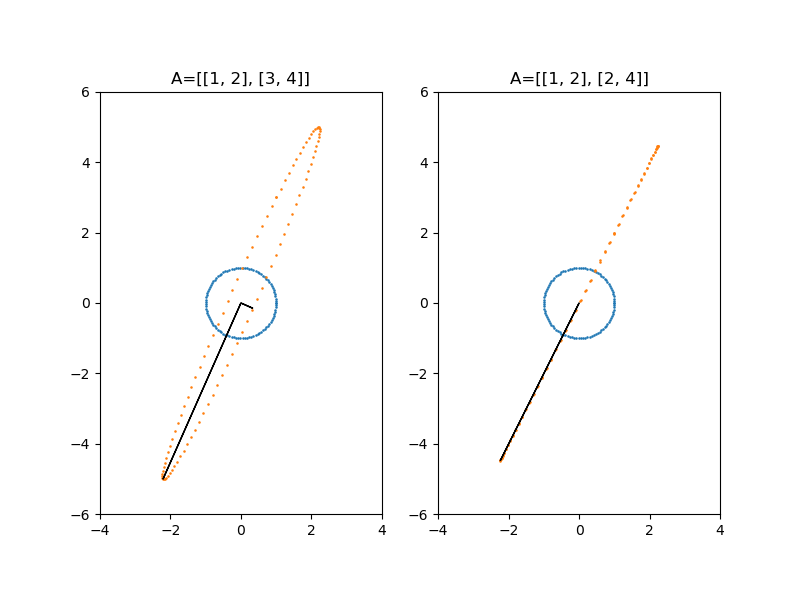
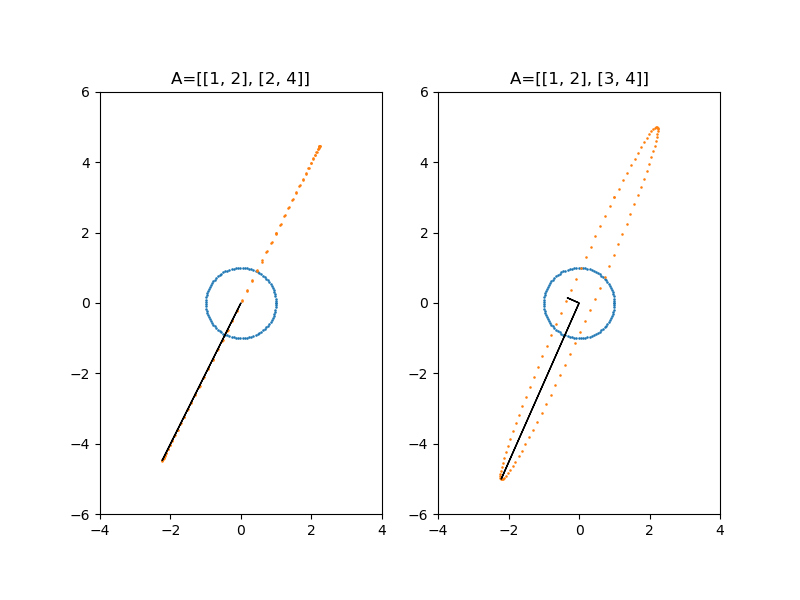
.

diff --git a/src/4_polar_decomp.py b/src/4_polar_decomp.py
@@ -3,50 +3,36 @@ import matplotlib.pyplot as plt
 from scipy import linalg
 
 
-def plot_circle_transformation(A, ax, use_svd=False):
-    # circle
-    t = np.linspace(-1, 1, 100)
-
-    # transform unit circle
-    Ax = A[0, :] @ np.stack([np.cos(2*np.pi*t), np.sin(2*np.pi*t)], axis=0)
-    Ay = A[1, :] @ np.stack([np.cos(2*np.pi*t), np.sin(2*np.pi*t)], axis=0)
-    ax.scatter(np.cos(2*np.pi*t), np.sin(2*np.pi*t), s=0.7)
-    ax.scatter(Ax, Ay, s=0.7)
-    ax.axis('scaled')
-    ax.set_ylim(-6, 6)
-    ax.set_xlim(-4, 4)
-
-    if use_svd==False:
-        # plot eigenvectors from polar decomposition
-        U, P = linalg.polar(A, side='right')
-    else:
-        # obtain U and P from SVD
-        u, s, vT = np.linalg.svd(A)
-        U = u @ vT
-        P = vT.T @ np.diag(s) @ vT
-    
-    # get eigenvectors -> scale by eigenvals -> rotate -> plot
-    eig_vals = np.linalg.eig(P)[0]
-    eig_vecs = np.linalg.eig(P)[1]
-    ax.arrow(0, 0, eig_vals[0]*(U @ eig_vecs[:, 0])[0], eig_vals[0]*(U @ eig_vecs[:, 0])[1]) # rotate v1
-    ax.arrow(0, 0, eig_vals[1]*(U @ eig_vecs[:, 1])[0], eig_vals[1]*(U @ eig_vecs[:, 1])[1]) # rotate v2
-    return U, P
-
-
 if __name__ == '__main__':
-    use_svd = False
-    T = np.array([[1, 2], [3, 4]]) # nonsingular
-    S = np.array([[1, 2], [2, 4]]) # singular
-    matrices = [T, S]
-    
-    # plot unit circle and its transformation
+    S = np.array([[1, 2], [2, 4]])
+    T = np.array([[1, 2], [3, 4]])
+    matrices = [S, T]
+
     fig, ax = plt.subplots(1, 2, figsize=(8, 6))
     for i in [0, 1]:
         A = matrices[i]
-        U, P = plot_circle_transformation(A, ax[i], use_svd=use_svd)
+        # circle
+        t = np.linspace(-1, 1, 100)
+
+        # transform unit circle
+        Ax = A[0, :] @ np.stack([np.cos(2*np.pi*t), np.sin(2*np.pi*t)], axis=0)
+        Ay = A[1, :] @ np.stack([np.cos(2*np.pi*t), np.sin(2*np.pi*t)], axis=0)
+        ax[i].scatter(np.cos(2*np.pi*t), np.sin(2*np.pi*t), s=0.7)
+        ax[i].scatter(Ax, Ay, s=0.7)
+        ax[i].axis('scaled')
+        ax[i].set_ylim(-6, 6)
+        ax[i].set_xlim(-4, 4)
+
+        # obtain U and P from SVD
+        u, s, vT = np.linalg.svd(A)
+        Q = u @ vT
+        P = vT.T @ np.diag(s) @ vT
+
+        # get eigenvectors -> scale by singular values -> rotate -> plot
+        eig_vals = s
+        eig_vecs = vT.T
+        ax[i].arrow(0, 0, eig_vals[0]*(Q @ eig_vecs[:, 0])[0], eig_vals[0]*(Q @ eig_vecs[:, 0])[1]) # rotate v1
+        ax[i].arrow(0, 0, eig_vals[1]*(Q @ eig_vecs[:, 1])[0], eig_vals[1]*(Q @ eig_vecs[:, 1])[1]) # rotate v2
         ax[i].set_title(f'A={A.tolist()}')
 
-    if use_svd:
-        plt.savefig('../img/4_polar_decomposition-svd.png')
-    else:
-        plt.savefig('../img/4_polar_decomposition.png')
+    plt.savefig('../img/4_polar_decomposition.png')

diff --git a/src/4_operator_norm.py b/src/4_operator_norm.py
@@ -1,12 +1,25 @@
 import numpy as np
+import matplotlib.pyplot as plt
+from matplotlib.ticker import MaxNLocator
 
-t = np.linspace(-1, 1, 11123)
-unit_circle = np.stack([np.cos(2*np.pi*t), np.sin(2*np.pi*t)], axis=0)
-A = np.random.randn(2, 2)
-op_norm = max([np.linalg.norm(A @ unit_circle[:, i]) for i in range(100)])
-op_norm_np = np.linalg.norm(A, 2)
-u, s, vT = np.linalg.svd(A)
 
-print("approx:\t", op_norm)
-print("numpy:\t", op_norm_np)
-print("svd:\t", s[0])
+errors = []
+for j in [2, 4, 5, 6]:
+    N = int(10*j) # <--- no. of points on the unit circle
+    t = np.linspace(-1, 1, N)
+    unit_circle = np.stack([np.cos(2*np.pi*t), np.sin(2*np.pi*t)], axis=0)
+    A = np.random.randn(2, 2)
+    outputs = A @ unit_circle
+    op_norm = np.linalg.norm(A @ unit_circle, axis=0).max()
+    op_norm_np = np.linalg.norm(A, 2)
+    errors.append(abs(op_norm - op_norm_np))
+
+# plot errors
+ax = plt.figure().gca()
+ax.plot([10, 100, 1000, 10000], errors)
+ax.xaxis.set_major_locator(MaxNLocator(integer=True))
+ax.set_ylabel('approx. error')
+ax.set_xlabel('no. of unit circle points')
+
+# save
+plt.savefig('../img/4_operator_norm.png')

diff --git a/src/4_compute_svd.py b/src/4_compute_svd.py
@@ -1,0 +1,21 @@
+import numpy as np
+
+
+rng = np.random.RandomState(0)
+A = rng.randn(2, 2)
+u, s, vT = np.linalg.svd(A)
+
+# check eigenvalues of sqrt(A^T A) = singular values A
+print('eigvals of sqrt(A^T A):\t', np.sqrt(np.linalg.eig( A.T @ A )[0]))
+print('singular values of A:\t', s)
+
+# check that maximum singular value = maximum dilation of circle
+N = 1000 # <--- no. of points on the unit circle
+t = np.linspace(-1, 1, N)
+unit_circle = np.stack([np.cos(2*np.pi*t), np.sin(2*np.pi*t)], axis=0)
+outputs = A @ unit_circle
+max_output_norm = np.linalg.norm(A @ unit_circle, axis=0).max()
+print('max norm - max s.value:\t', abs(max_output_norm - s[0]))
+
+# check that Av = \sigma u
+print('|| Av - su ||.max():\t', np.abs(u @ np.diag(s) - A @ vT.T).max()) 

diff --git a/notes.md b/notes.md
@@ -43,37 +43,47 @@
   <br><br>
 
 
-* (4.51) **Geometry of linear transformations.** In the code challenge, we saw that a unit circle is mapped into an ellipse. An explanation for this begins by considering the polar decomposition of any real matrix $\bold A$ into $\bold A =  \bold Q \bold P$ where $\bold Q \in \mathbb{R}^{n\times n}$ is orthogonal and $\bold P \in \mathbb{R}^{n\times n}$ is symmetric positive semidefinite. Note that $\bold P$ is a self-adjoint operator on $\mathbb R^n$. So $\bold P$ has real eigenvalues [[Prop. 7.6]](https://www.maa.org/sites/default/files/pdf/awards/Axler-Ford-1996.pdf) that are nonnegative since $\bold P$ is semidefinite. Self-adjointness further implies that $\bold P$ has $n$ real eigenvalues and $n$ real orthonormal eigenvectors [[Thm. 8.3]](https://www.maa.org/sites/default/files/pdf/awards/Axler-Ford-1996.pdf). This is called the **real spectral theorem** which allows us to write $\bold P = \bold V \bold \Sigma \bold V^\top$ where $\bold V$ is the orthogonal matrix formed by column stacking its eigenvectors of $\bold P$, and $\bold \Sigma$ is the diagonal matrix of its eigenvalues. If we look at $\bold V$ and $\bold V^\top$ as change of basis matrices, or writing $\bold P \bold x = \sum_{i=1}^n \lambda_i \bold v_i \bold v_i^\top \bold x$ (projection operators!) we see that $\bold A$ stretches $\mathbb R^n$ in the direction of the $n$ orthogonal eigenvectors, followed by an orthogonal transformation by $\bold Q$. We can [calculate](https://math.stackexchange.com/a/2924263) that orthogonal transformations of $\mathbb R^2$ are either rotations or reflections, so the unit circle in $\mathbb R^2$ is stretched onto an ellipse that is either reflected or rotated resulting to the final ellipse! Note that the rank of $\bold A$ is equal to the rank of $\bold P$ since $\bold Q$ is nonsingular. So whenever $\bold A$ doesn't have full rank, some eigenvalues of $\bold P$ are zero, which results to a degenerate ellipse, i.e. an ellipse collapsing on some axis (see below).
-<br><br>
-**Remark.** The polar decomposition comes from the SVD which states that any real matrix $\bold A \in \mathbb R^{m \times n}$ can be written as $\bold A = \bold U \bold \Sigma \bold V^\top$ where $\bold U \in \mathbb R^{m \times m}$ and $\bold V \in \mathbb R^{n \times n}$ are real orthonogonal matrices and $\bold\Sigma  \in \mathbb R^{m \times n}$ is a diagonal matrix with nonnegative real numbers on the diagonal are the **singular values** of $\bold A$. The number of nonzero singular values is equal to the rank of $\bold A$. Observe that writing $\bold A = \bold Q \bold P$ where $\bold Q = \bold U \bold V^\top$ and $\bold P = \bold V\bold \Sigma \bold V^\top$ gives us the polar decomposition. <br><br>
+* (4.51) **Geometry of linear operators.** In the code challenge, we saw that a unit circle is mapped by a square matrix $\bold A$ into an ellipse. It turns out that the effect of a square matrix $\bold A \in \mathbb R^{2 \times 2}$ as an operator on $\mathbb R^2$ is to expand the space outwards in $2$ orthogonal directions (possibly some directions with zero expansion), then rotate it twice. To see this, let $\bold A = \bold U \bold \Sigma \bold V^\top$ is the SVD of $\bold A$, then $\bold A = (\bold U \bold V^\top) (\bold V \bold\Sigma \bold V^\top)$. The factor $\bold V \bold\Sigma \bold V^\top$ dilates $\mathbb R^2$ in $2$ orthogonal directions defined by the columns of $\bold V$ while the strength of the dilation is determined by the singular values in the diagonal of $\bold \Sigma$. 
+We can interpret $\bold V$ and $\bold V^\top$ as change of basis matrices, i.e. in terms of a sum of projection operators $\sum_{i=1}^n \sigma_i \bold v_i \bold v_i^\top$. This is followed by $\bold U \bold V^\top$ which are two isometries of $\mathbb R^2$. We can [calculate](https://math.stackexchange.com/a/2924263) that orthogonal transformations of $\mathbb R^2$ are either rotations or reflections, so that we get a final ellipse. Note that the rank of $\bold A$ is equal to the number of nonzero singular values. So whenever $\bold A$ doesn't have full rank, some of its singular values will be zero. This results to a degenerate ellipse, i.e. an ellipse collapsing on some axis (see figure below). <br><br>
 
-* (4.51) **Computing the polar decomposition.** In `src\4_polar_decomp.py`, we verify the theory by calculating the polar decomposition: `Q, P = scipy.linalg.polar(A)`. The result is that `P` is real symmetric and `Q` is real orthogonal. Some eigenvalues of `P` are zero for singular `A`  (right) while all are nonzero for nonsingular `A` (left). The eigenvectors of `P` are scaled by the corresponding eigenvalues, then rotated with `Q`. The rotated eigenvectors of `P` lie along the major and minor axis of the ellipse: the directions where the circle is stretched prior to rotation. This checks out! The code also includes a calculation of the polar decomposition from the SVD. <br><br>
+* (4.51) **Polar decomposition.** The decomposition of an operator $\bold A \in \mathbb R^{n\times n}$ in (4.51) into $\bold A = \bold Q \bold P$ where $\bold Q$ is orthogonal and $\bold P$ is symmetric positive semidefinite is called the **polar decomposition**. Geometrically, we can see that $\bold P$ should be unique. Indeed, observe that $\bold P^2 = \bold A^\top \bold A$ and $\bold A^\top \bold A$ is evidently symmetric positive semidefinite, so it has a unique symmetric positive semidefinite square root $\sqrt{\bold A^\top \bold A}$ [[Thm. 3]](https://www.math.drexel.edu/~foucart/TeachingFiles/F12/M504Lect7.pdf). Thus, $\bold P = \sqrt{\bold A ^\top \bold A}$ by uniqueness. Note however that its the eigenvectors in its orthogonal eigendecomposition into $\bold V \bold \Sigma \bold V^\top$ need not be unique. For real matrices, the isometries are precisely the orthogonal matrices. Thus, the polar decomposition can be written as $\bold A = \bold Q \sqrt{\bold A^\top \bold A}$ for some isometry $\bold Q$ &mdash; cf. [[Lem. 9.6]](https://www.maa.org/sites/default/files/pdf/awards/Axler-Ford-1996.pdf) which states the polar decomposition in terms of the existence such an isometry. The matrix $\bold Q$ is only unique if $\bold A$ is nonsingular. For instance, if $\bold A$ is singular, then we can reflect across the axis where the space is collapsed and still get the same transformation. <br>
+   
+    **Remark.** The name "polar decomposition" comes from the analogous decomposition of complex numbers as $z = re^{i\theta}$ in polar coordinates. Here $r = \sqrt{\bar z z }$ (analogous to $\sqrt{\bold A^* \bold A}$) and multiplication by $e^{i\theta}$ is an isometry of $\mathbb C$ (analogous to the isometric property of $\bold Q$). For complex matrices we consider $\bold A^*\bold A$ and unitary matrices in the SVD. <br><br> 
+
+* (4.51) **Computing the polar decomposition.** In `src\4_polar_decomp.py`, we verify the theory by calculating the polar decomposition from `u, s, vT = np.linalg.svd(A)`. We set `Q = u @ vT` and `P = vT.T @ np.diag(s) @ vT`. Some singular values are zero for singular `A`  (left) while all are nonzero for nonsingular `A` (right). The eigenvectors of `P` are scaled by the corresponding eigenvalues, then rotated with `Q`. The rotated eigenvectors of `P` lie along the major and minor axis of the ellipse: the directions where the circle is stretched prior to rotation. The code checks out in that the eigenvectors (that we obtained from SVD) line up nicely along the axes where the circle is elongated (obtained as a scatter plot of output vectors `[Ax, Ay]` where `[x, y]` is a point on the unit circle). <br><br>
     <p align="center">
     <img src="img/4_polar_decomposition.png" title="drawing" width="600" />
     </p> <br>
-    
-    **Remarks.**
-    This gives us the intuition that $\bold P$ in the polar decomposition must be unique. Indeed, $\bold P^2 = \bold A^\top \bold A$. Since $\bold A^\top \bold A$ is evidently symmetric  positive semidefinite, it has a unique symmetric positive semidefinite square root $\sqrt{\bold A^\top \bold A}$ [[Thm. 3]](https://www.math.drexel.edu/~foucart/TeachingFiles/F12/M504Lect7.pdf). Then, $\bold P = \sqrt{\bold A ^\top \bold A}$ by uniqueness. It follows that the polar decomposition can be written as $\bold A = \bold U \sqrt{\bold A^\top \bold A}$ for some orthogonal matrix $\bold U$ &mdash; cf. [[Lem. 9.6]](https://www.maa.org/sites/default/files/pdf/awards/Axler-Ford-1996.pdf) which states the polar decomposition in terms of the existence such an isometry.
-    The matrix $\bold U$ is only unique if $\bold A$ is nonsingular. For instance, if $\bold A$ is singular, then we can reflect across the axis where the space is collapsed and still get the same transformation.<br><br> 
 
-* **Orthogonal matrices in $\mathbb R^n$ are precisely the linear isometries of $\mathbb R^n$.** A matrix $\bold A \in \mathbb R^n$ is an isometry if $\lVert \bold A \bold x\rVert^2 = \lVert \bold x \rVert^2$ for all $\bold x \in \mathbb R^n$. Note that $\lVert \bold A \bold x \rVert^2 = \bold x^\top\bold A^\top \bold A \bold x$ and $\lVert \bold x \rVert^2 = \bold x^\top \bold x$. So orthogonal matrices are isometries. Conversely, if a matrix $\bold A$ is an isometry, we can let $\bold x = \bold e_i - \bold e_j$ to get $\bold e_i^\top (\bold A^\top \bold A) \bold e_j = 
+
+* **Orthogonal matrices are precisely the linear isometries of $\mathbb R^n$.** A matrix $\bold A \in \mathbb R^n$ is an isometry if $\lVert \bold A \bold x\rVert^2 = \lVert \bold x \rVert^2$ for all $\bold x \in \mathbb R^n$. Note that $\lVert \bold A \bold x \rVert^2 = \bold x^\top\bold A^\top \bold A \bold x$ and $\lVert \bold x \rVert^2 = \bold x^\top \bold x$. So orthogonal matrices are isometries. Conversely, if a matrix $\bold A$ is an isometry, we can let $\bold x = \bold e_i - \bold e_j$ to get $\bold e_i^\top (\bold A^\top \bold A) \bold e_j = 
 (\bold A^\top \bold A)_{ij} 
 = \delta_{ij}$ where $\delta_{ij}$ is the Kronecker delta or $\bold A^\top\bold A = \bold I$. This tells us that length preserving matrices in $\mathbb R^n$ are necessarily orthogonal. Orthogonal matrices in $\mathbb R^2$ are either rotations or reflections &mdash; both of these are length preserving. The more surprising result is that these are the only length preserving matrices in $\mathbb R^2$!
 <br><br> 
 
-* **Polar in polar decomposition.** The name "polar decomposition" comes from writing complex numbers as $z = re^{i\theta}$ in terms of its polar coordinates. Here $r = \sqrt{\bar z z }$ (analogous to $\sqrt{\bold A^* \bold A}$) and multiplication by $e^{i\theta}$ is an isometry of $\mathbb C$ (analogous to the isometric property of $\bold U$).<br><br>
+* **Singular value decomposition.** The SVD states that any real matrix $\bold A \in \mathbb R^{m \times n}$ can be decomposed as $\bold A = \bold U \bold \Sigma \bold V^\top$ where $\bold U \in \mathbb R^{m \times m}$ and $\bold V \in \mathbb R^{n \times n}$ are real orthonogonal matrices and $\bold\Sigma  \in \mathbb R^{m \times n}$ is a diagonal matrix with nonnegative real numbers on the diagonal are the **singular values** of $\bold A$. The number $r$ of nonzero singular values is equal to the rank of $\bold A$ as we will show below. 
+<br><br>
+
+* **Computing the SVD.** In `4_compute_svd.py` we calculate 3 things: (1) equality between the singular values of $\sqrt{\bold A^\top \bold A}$ and $\bold A$, (2) difference bet. max. singular value $\sigma_1$ and $\max_{\lVert \bold x \rVert_2 = 1} \lVert \bold A \bold x \rVert_2$, and (3) whether $\bold A\bold v_i = \sigma_i \bold u_i$ for $i = 1, 2$. Here $\bold A$ is a 2x2 matrix with elements sampled from a standard normal.
+  ```
+    eigvals of sqrt(A^T A):  [1.29375301 2.75276951]
+    singular values of A:    [2.75276951 1.29375301]
+    max norm - max s.value:  1.6732994501111875e-07
+    || Av - su ||.max():     2.220446049250313e-16
+  ```
+  <br>
 
 * **A nondiagonalizable matrix.** The matrix $\bold A = [[1, 0], [1, 1]]$ has eigenvalues are $\lambda_1 = \lambda_2 = 1$ with eigenvectors of the form $\bold v = [0, t]^\top$ for nonzero $t \in \mathbb R$. It follows that $\bold A$ is not diagonalizable since it has at most one linearly independent eigenvectors &mdash; not enough to span $\mathbb R^2.$ <br><br>
 
 * (4.56) **Symmetric product of two symmetric matrices.** Suppose $\bold S$ and $\bold T$ are symmetric matrices. What is the condition so that their product $\bold S \bold T$ is symmetric? Observe that $(\bold S \bold T)^\top = \bold T ^\top \bold S ^\top = \bold T \bold S.$ Thus, the product of two symmetric matrices is symmetric if and only if the matrices commute. This works for a very small class of matrices, such as zeros or constant diagonal matrices. 
 In the case of $2 \times 2$ matrices, this is satisfied most naturally by  matrices with constant diagonal entries &mdash; this is just a quirk that does not generalize to higher dimensional matrices.
 The lack of symmetry, i.e. $\bold S \bold T \neq \bold T \bold S$, turns out to be extremely important in machine-learning, multivariate statistics, and signal processing, and is a core part of the reason why linear classifiers are so successful [[Lec 56, Q&A]](https://www.udemy.com/course/linear-algebra-theory-and-implementation/learn/lecture/10738628#questions/13889570/): 
-    >  "The lack of symmetry means that $\bold C=\bold B^{-1} \bold A$ is not symmetric, which means that $\bold C$ has non-orthogonal eigenvectors. In stats/data science/ML, most linear classifiers work by using generalized eigendecomposition on two data covariance matrices $\bold B$ and $\bold A$, and the lack of symmetry in $\bold C$ turns a compression problem into a separation problem. I talk about this briefly in lecture 153, which you can skip forwards to if you're curious. But if you are not familiar with eigendecomposition, then it might not make sense until you get to that point linearly."
+    >  "The lack of symmetry means that $\bold C=\bold B^{-1} \bold A$ is not symmetric, which means that $\bold C$ has non-orthogonal eigenvectors. In stats/data science/ML, most linear classifiers work by using generalized eigendecomposition on two data covariance matrices $\bold B$ and $\bold A$, and the lack of symmetry in $\bold C$ turns a compression problem into a separation problem."
 
-<br>
+    (???)<br><br>
 
-* (4.57) Hadamard and standard multiplications are equivalent for diagonal matrices. This can have consequences in practice. The following code in IPython shows that Hadamard multiplication is 3 times faster than standard multiplication in NumPy.
-    ```python
+* (4.57) **Hadamard and standard multiplications are equivalent for diagonal matrices.** This can have consequences in practice. The following code in IPython shows that Hadamard multiplication is 3 times faster than standard multiplication in NumPy.
+    ```
     In [1]: import numpy as np
     In [2]: D = np.diag([1, 2, 3, 4, 5])
     In [3]: %timeit D @ D
@@ -83,19 +93,16 @@ The lack of symmetry, i.e. $\bold S \bold T \neq \bold T \bold S$, turns out to 
     ```     
 <br>
 
-* (4.59) **Frobenius norm.** Let $\bold A$ and $\bold B$ be $m \times n$ matrices. The **Frobenius dot product** between two matrices $\bold A$ and $\bold B$ is defined as 
+* (4.59) **Frobenius norm.** Let $\bold A$ and $\bold B$ be $m \times n$ matrices. The **Frobenius inner product** between two matrices $\bold A$ and $\bold B$ is defined as 
   $$
-  {\langle \bold A, \bold B \rangle}_F =  \sum_{i=1}^m \sum_{j=1}^n {(\bold A \odot \bold B)}_{ij}.
+  {\langle \bold A, \bold B \rangle}_F =  \sum_{i=1}^m \sum_{j=1}^n a_{ij}b_{ij} =  \sum_{i=1}^m \sum_{j=1}^n {(\bold A \odot \bold B)}_{ij}.
   $$ 
-  This can be computed in two other ways (1) reshsape the two matrices $\bold A$ and $\bold B$ as vectors, then take their usual dot product; and (2) $\text{tr}(\bold A^\top \bold B)$ which should be nice for the sake of theory, but makes *a lot* of unnecessary computation! The **Frobenius norm** is defined as 
+  This can be computed in two other ways: (1) reshape the two matrices $\bold A$ and $\bold B$ as vectors, then take their usual dot product; and (2) $\text{tr}(\bold A^\top \bold B)$ which should be nice for theory, but makes *a lot* of unnecessary computation! The **Frobenius norm** is defined as 
   $$
   \lVert \bold A \rVert_F = \sqrt{\langle \bold A, \bold A\rangle_F} = \sqrt{\text{tr} (\bold A^\top \bold A)} = \sqrt{\sum\sum {a_{ij}}^2}.
   $$ 
-    
     The fastest way to calculate this in NumPy is the straightforward `(A * B).sum()`. Other ways of calculating (shown in the video) are slower: (1) `np.dot(A.reshape(-1, order='F'), B.reshape(-1, order='F'))` where `order='F'` means Fortran-like indexing or along the columns, and (2) `np.trace(A @ B)`. 
-    
-    
-    ```python
+    ```
     In [14]: A = np.random.randn(2, 2)
     In [15]: B = np.random.randn(2, 2)
     In [17]: %timeit np.dot(A.reshape(-1, order='F'), B.reshape(-1, order='F'))
@@ -105,22 +112,19 @@ The lack of symmetry, i.e. $\bold S \bold T \neq \bold T \bold S$, turns out to 
     In [25]: %timeit (A * B).sum()
     3.73 µs ± 185 ns per loop (mean ± std. dev. of 7 runs, 100000 loops each)
     ```
-    
-    **Remark.** The Frobenius dot product is an inner product on $\mathbb R^{m \times n}$ in the same way that the usual dot product is an inner product on $\mathbb R^{mn}$. It follows that the Frobenius norm $\lVert \cdot \rVert_F$ is a norm as it is induced by the inner product $\langle \cdot, \cdot \rangle_F$ [[Prop. 6]](https://ai.stanford.edu/~gwthomas/notes/norms-inner-products.pdf). As usual for complex matrices we replace the transpose with the conjugate transpose: $\langle \bold A, \bold B\rangle_F =\text{tr}(\bold A^* \bold B)$ and $\lVert \bold A \rVert_F= \sqrt{\text{tr} (\bold A^* \bold A)} = \sqrt{\sum\sum |a_{ij}|^2}.$ These are an inner product and a norm on $\mathbb C^{m \times n}$, as in the real case.  <br><br>
+    **Remark.** The Frobenius inner product is an inner product on $\mathbb R^{m \times n}$ in the same way that the usual dot product is an inner product on $\mathbb R^{mn}$. It follows that the Frobenius norm $\lVert \cdot \rVert_F$ is a norm as it is induced by the inner product $\langle \cdot, \cdot \rangle_F$ [[Prop. 6]](https://ai.stanford.edu/~gwthomas/notes/norms-inner-products.pdf). As usual for complex matrices we replace the transpose with the conjugate transpose: $\langle \bold A, \bold B\rangle_F =\text{tr}(\bold A^* \bold B)$ and $\lVert \bold A \rVert_F= \sqrt{\text{tr} (\bold A^* \bold A)} = \sqrt{\sum\sum |a_{ij}|^2}.$ These are an inner product and a norm on $\mathbb C^{m \times n}$, as in the real case.  <br><br>
 
 * (4.60) **Other norms.** The **operator norm** is defined as $\lVert \bold A \rVert_p = \sup_{\bold x \neq \bold 0} \lVert \bold A \bold x \rVert_p / \lVert \bold x \rVert_p$ where we use the $p$-norm for vectors with $1 \leq p \leq \infty$. This just measures how much $\bold A$ scales the space, e.g. for isometries $\lVert \bold A \rVert_{p} = 1$. Another matrix norm, which unfortunately bears the same notation, is the **Schatten $p$-norm** defined as $\lVert \bold A  \rVert_p = \left( \sum_{i=1}^r \sigma_i^p \right)^{1/p}$ where $\sigma_1, \ldots, \sigma_r$ are the singular values of $\bold A$. That is, the Schatten $p$-norm is the $p$-norm of the vector of singular values of $\bold A$. Recall that the singular values are the length of the axes of the ellipse, so that Schatten $p$-norm is a cumulative measure of how much $\bold A$ expands the space around it in each dimension.
 <br><br>
 
-* (4.60) **Calculating the operator norm.** Here we approximate $\sup_{\lVert \bold x \rVert = 1} \lVert \bold A \bold x \rVert_p$ which is equivalent. Recall that the unit circle is transformed $\bold A$ to an ellipse whose length of axes are the singular values of $\bold A$. Thus, geometrically, we can guess that $\lVert \bold A \rVert_{p} = \sup_{\lVert \bold x \rVert = 1} \lVert \bold A \bold x \rVert_p = \sigma_1$ where $\sigma_1$ is the largest singular value of $\bold A$. We test this in `src/4_operator_norm.py` with the following results:
-   ```
-    approx:  1.8594375168610568
-    numpy:   1.8594432066519955
-    svd:     1.8594432066519957
-   ```
-    Awesome! Although, interestingly if we sample more than 100 equidistant points on the cicle, we get a worse approximation. (???)  
+* (4.60) **Operator norm and singular values.** Note that $\lVert \bold A \rVert_{p} = \sup_{\lVert \bold x \rVert = 1} \lVert \bold A \bold x \rVert_p$ for the operator norm. Recall that the unit circle is transformed $\bold A$ to an ellipse whose axes have length corresponding to the singular values of $\bold A$. Geometrically, we can guess that $\lVert \bold A \rVert_{p} = \max_{j} \sigma_j$  where $\sigma_j$ are the singular values of $\bold A$. Indeed, we can verify this:
+    ```
+    In [6]: A = np.random.randn(2, 2)
+    In [7]: abs(np.linalg.norm(A, 2) - np.linalg.svd(A)[1][0])
+    Out[7]: 0.0
+    ```
 
-
-
+*  
 
 <!--- Template
 * (4.46) **Punchline.**
@@ -128,6 +132,8 @@ The lack of symmetry, i.e. $\bold S \bold T \neq \bold T \bold S$, turns out to 
   <br><br> 
 
 * (4.46) **Test image.**<br>
+  <p align="center">
   <img src="img/bb.jpg" alt="drawing" width="200"/>
+  </p>
   <br><br>
 --->
